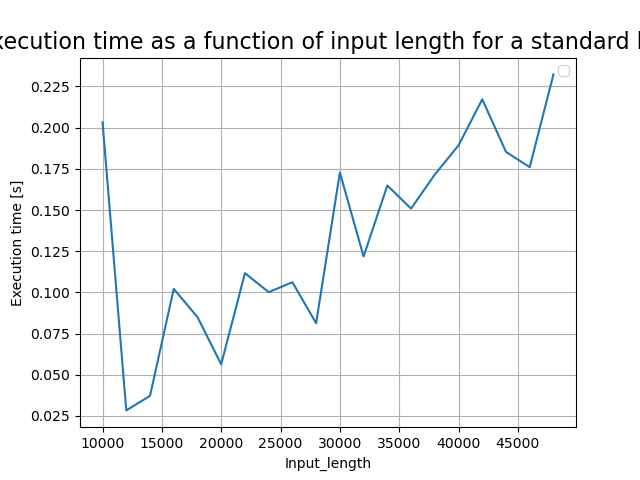
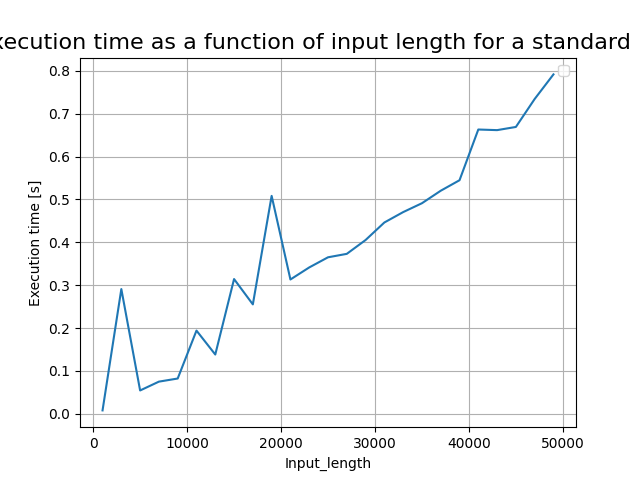
bruh

diff --git a/lab3/code/tests.py b/lab3/code/tests.py
@@ -258,8 +258,8 @@ class tests:
 
 if __name__ == "__main__":
     test = tests()
-    test.c_interval = 0.01
-    test.length_range[0] = 10**4
+    test.c_interval = 0.005
+    test.length_range[0] = 5*10**3
     test.validate_functions()
     assert test.results["validate_functions"][0]
     #test.test_semi_sorted_list()
